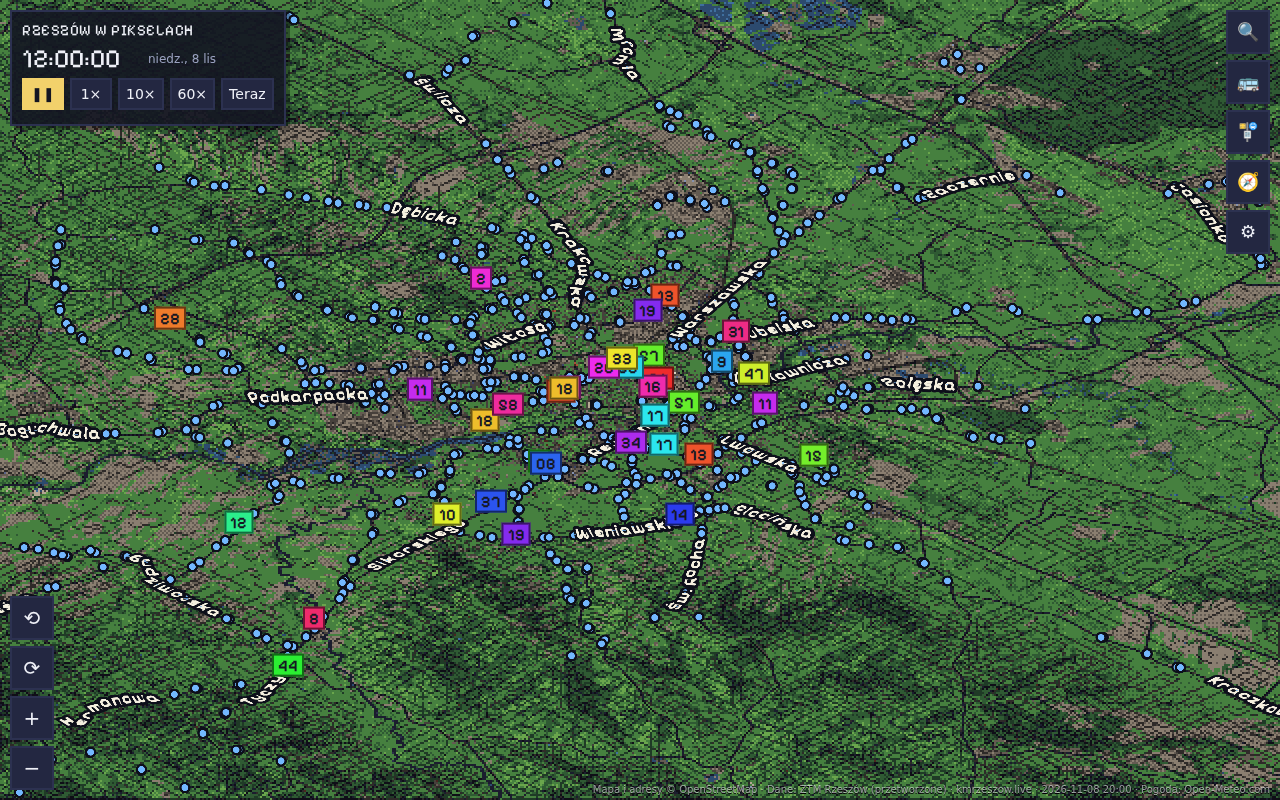
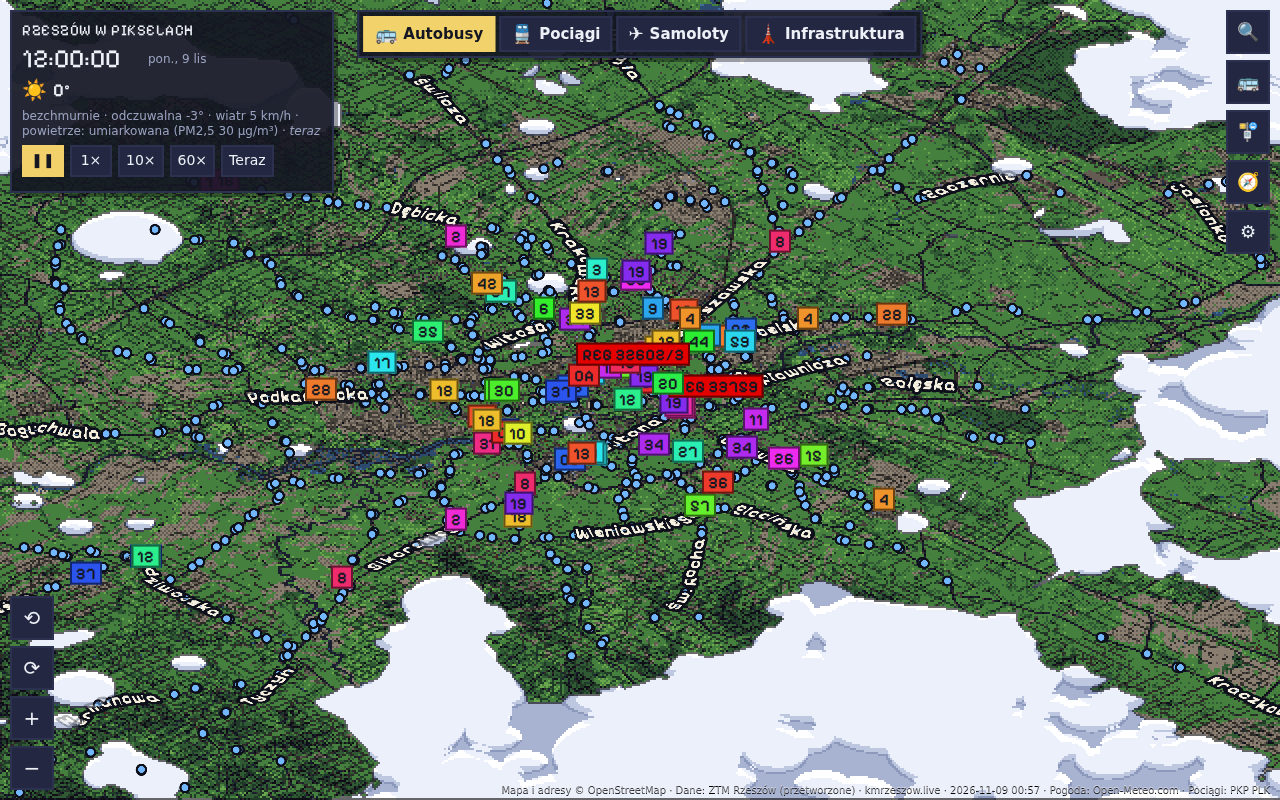
Refresh README screenshots

diff --git a/README.md b/README.md
@@ -26,7 +26,7 @@ Budynki, woda, teren, drogi i tory pochodzą z OpenStreetMap.
 
 **Telefon:** ten sam widok na wąskim ekranie.
 
-Screeny pokazują rozkład i dane OSM z 2026-11-08.
+Screeny pokazują rozkład i dane OSM z 2026-11-09.
 
 ## Pliki
 | Plik | Co robi |
